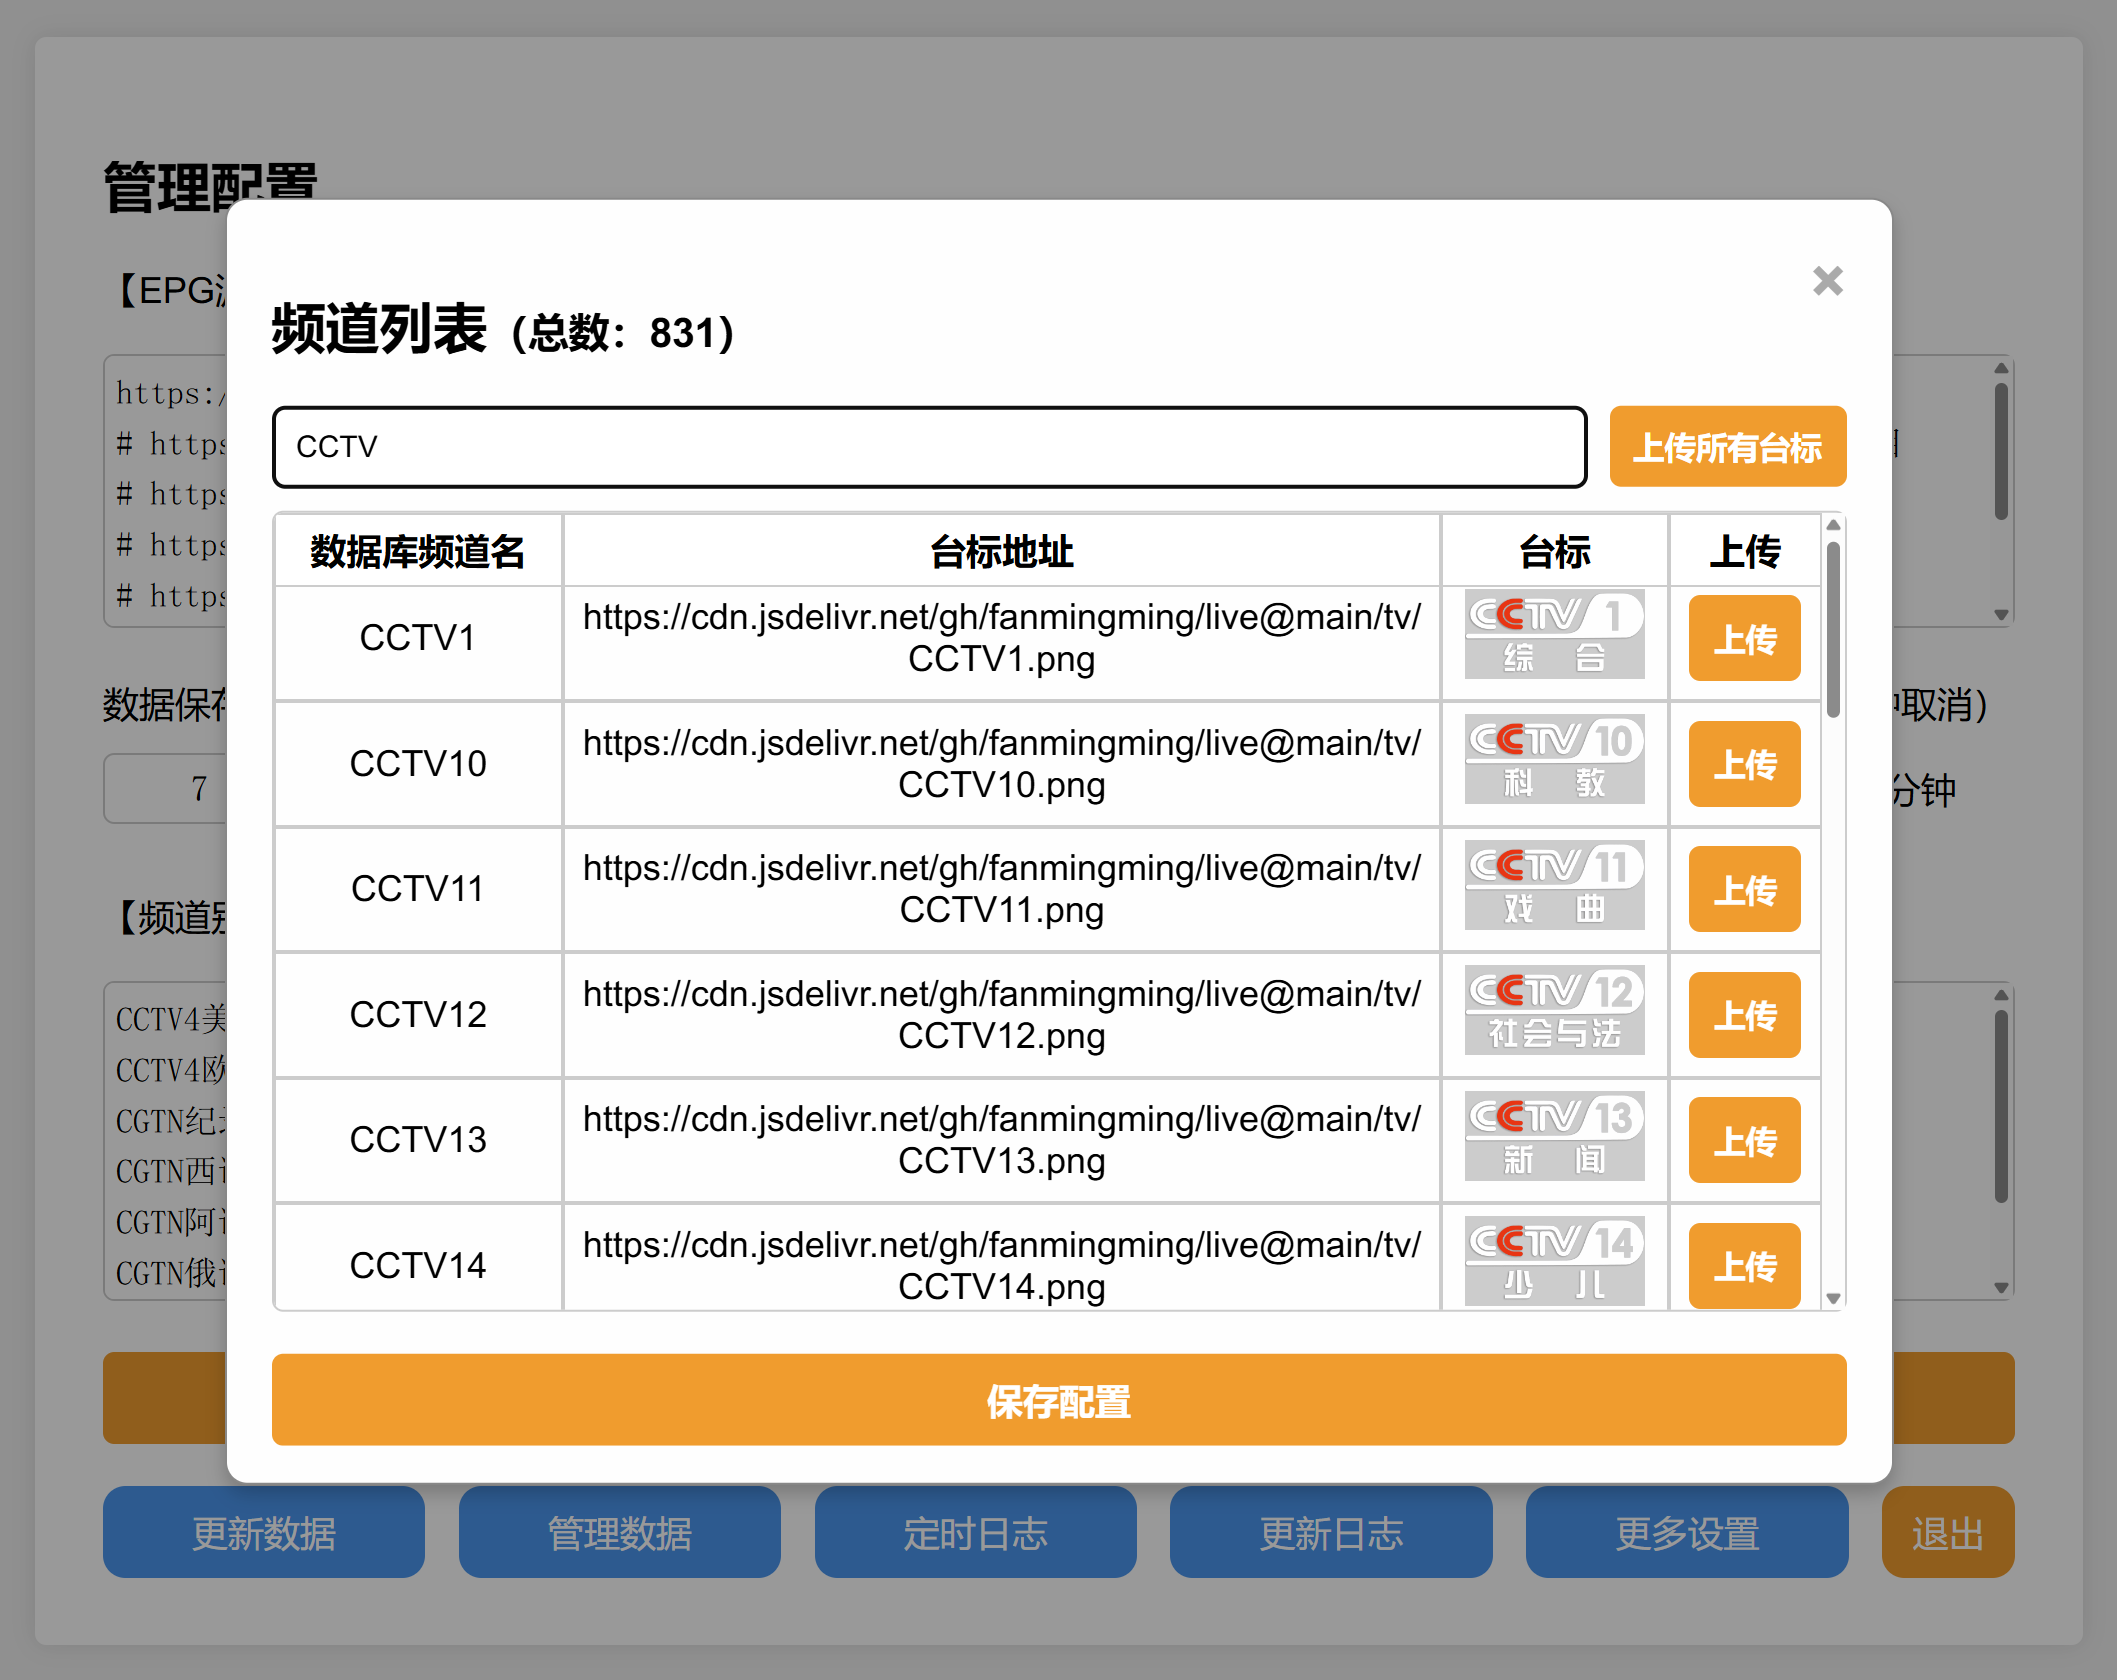
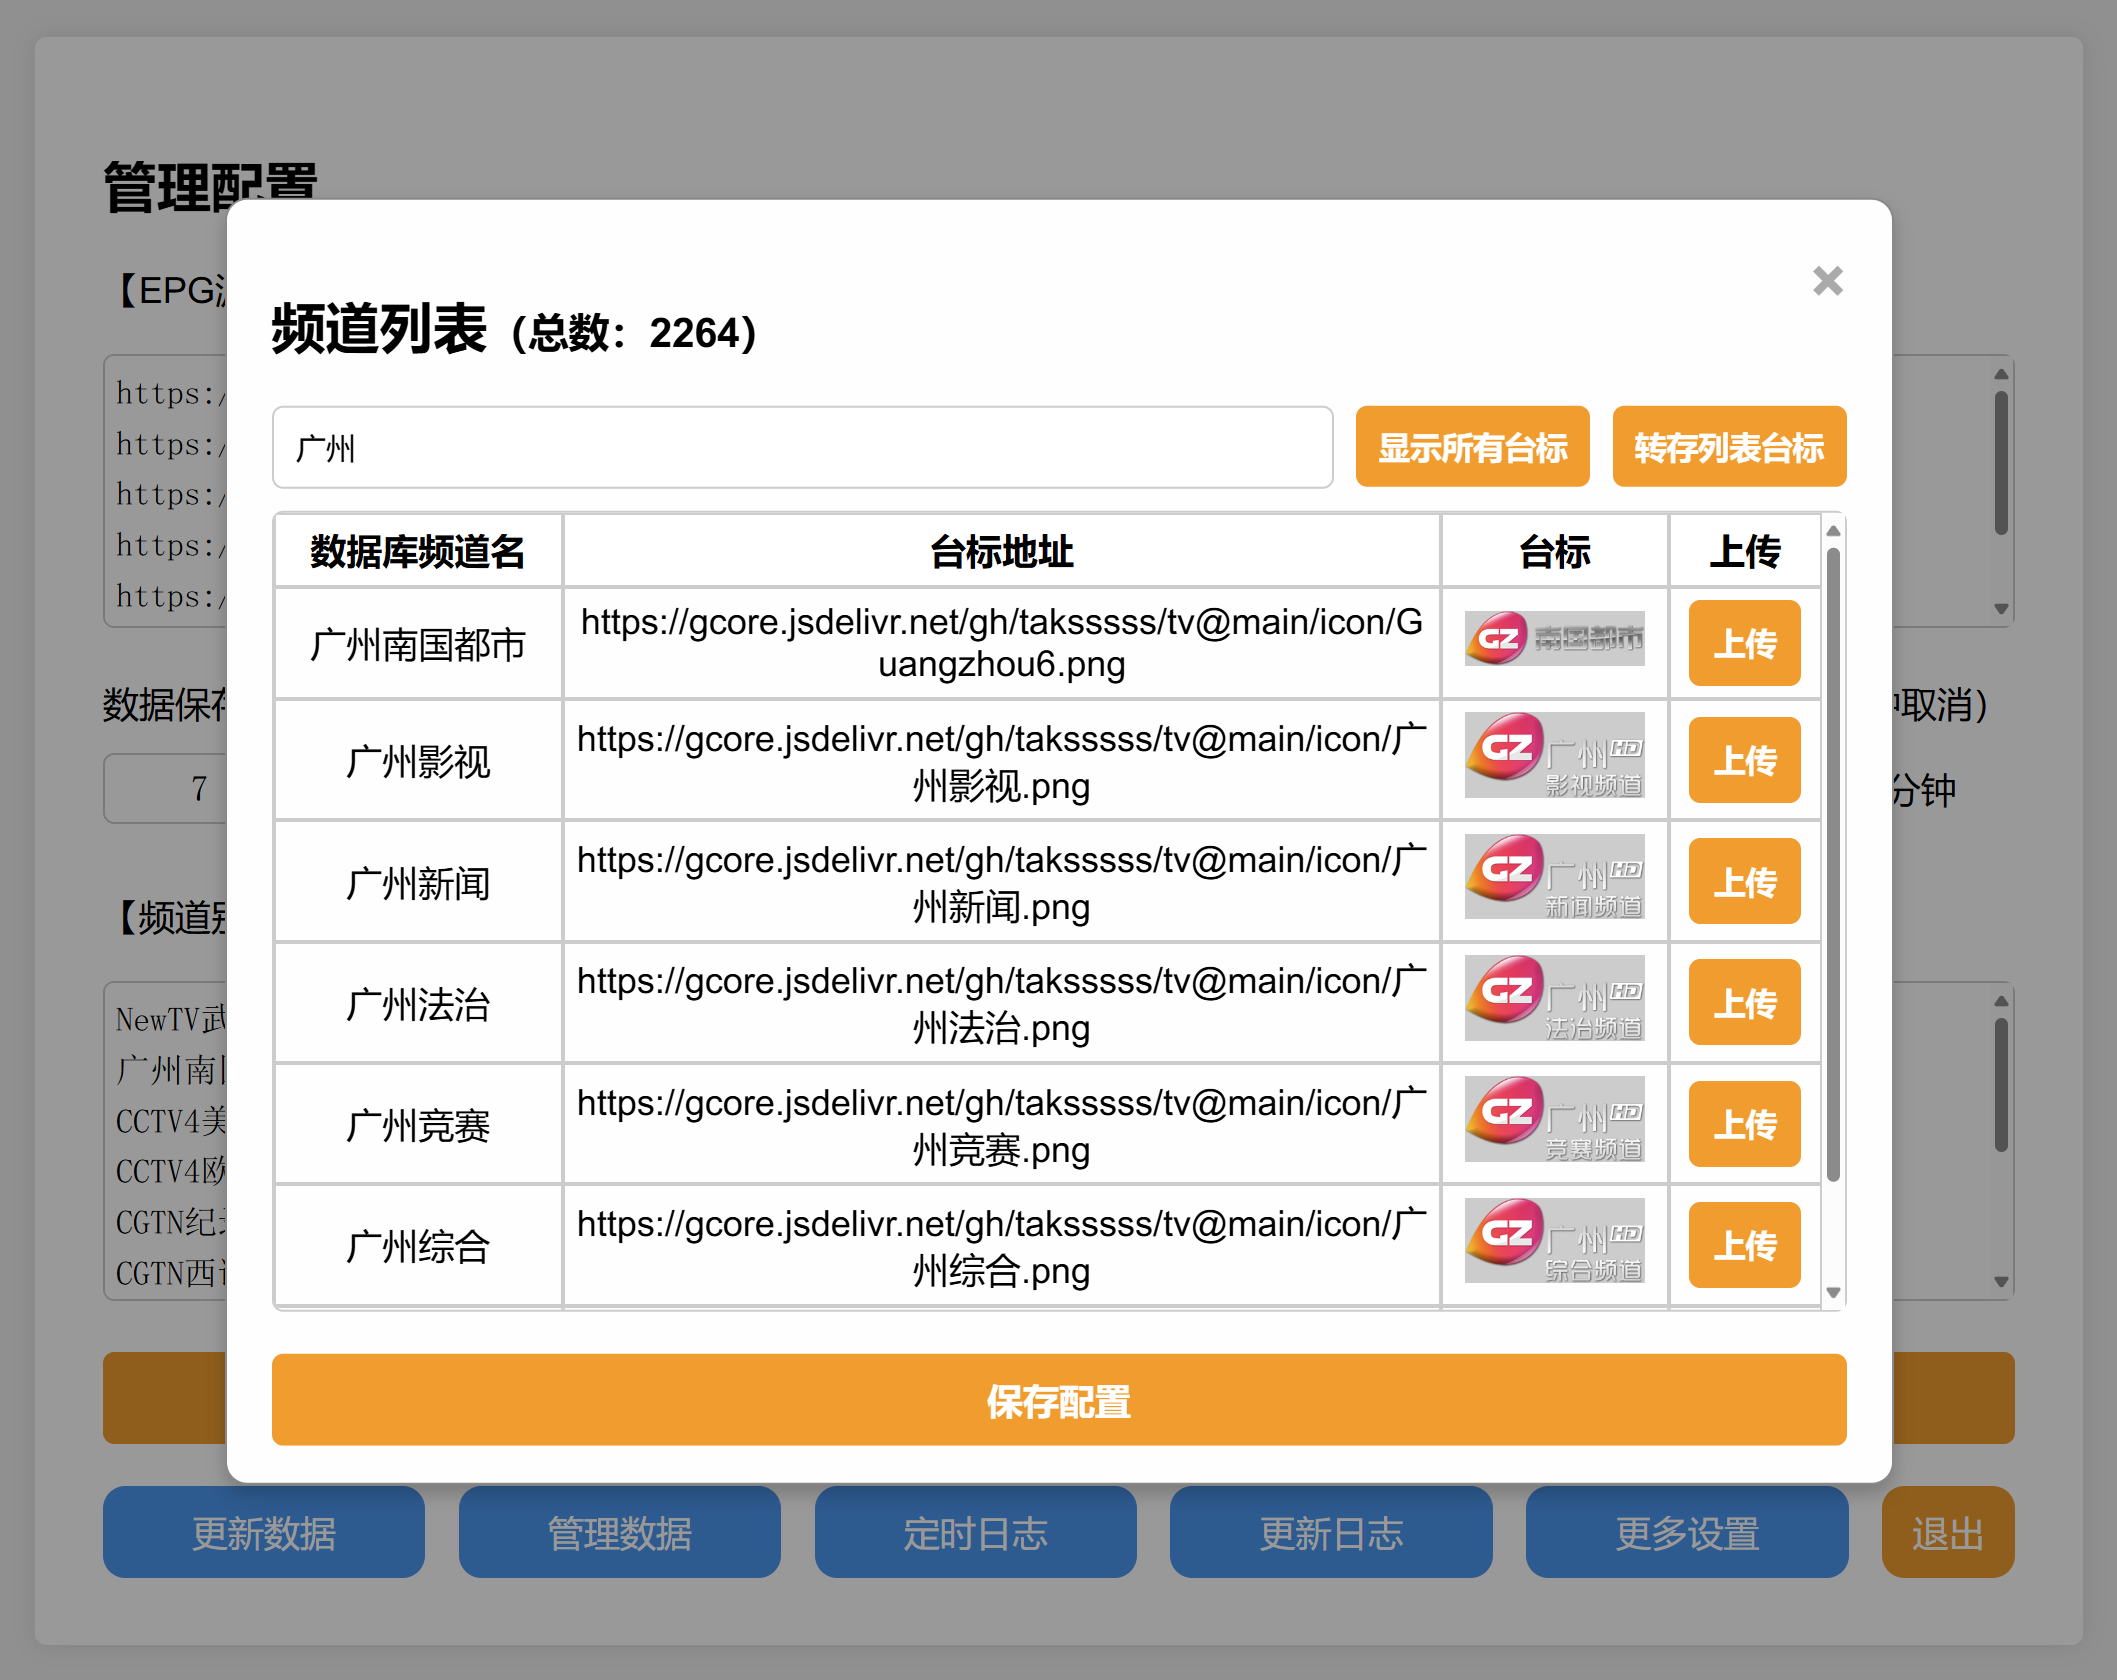
新增：同时显示无节目表的内置台标；优化：台标转存逻辑、频道模糊匹配

diff --git a/epg/css/manage.css b/epg/css/manage.css
@@ -155,8 +155,8 @@ input[type="text"] {
 .button-container a:hover, .button-container button:hover {
     background-color: #0b7dda;
 }
-button[id="uploadAllIcons"] {
-    width: 105px;
+button[id="uploadAllIcons"], button[id="showAllIcons"] {
+    width: auto;
     height: 36px;
     display: flex;
     align-items: center;

diff --git a/epg/manage.php b/epg/manage.php
@@ -313,6 +313,10 @@ try {
                 break;
 
             case 'get_icon':
+                // 是否显示无节目表的内置台标
+                if(isset($_GET['get_all_icon'])) {
+                    $iconList = $iconListMerged;
+                }
                 // 获取并合并数据库中的频道和 $iconList 中的频道，去重后按字母排序
                 $allChannels = array_unique(array_merge(
                     $db->query("SELECT DISTINCT channel FROM epg_data ORDER BY channel ASC")->fetchAll(PDO::FETCH_COLUMN),
@@ -608,8 +612,8 @@ try {
         
         <div class="flex-container">
             <div class="flex-item" style="width: 100%;">
-                <label for="channel_mappings">
-                    【频道别名】（数据库频道名 => 频道别名1, 频道别名2, ...）<span id="dbChannelName" onclick="showModal('channel')" style="color: blue; cursor: pointer;">（编辑别名）</span> <span id="dbChannelName" onclick="showModal('icon')" style="color: blue; cursor: pointer;">（编辑台标）</span>
+                <label>
+                    【频道别名】（数据库频道名 => 频道别名1, 频道别名2, ...）<span id="dbChannelName" onclick="showModal('channel')" style="color: blue; cursor: pointer;">（编辑别名）</span><span id="dbChannelName" onclick="showModal('icon')" style="color: blue; cursor: pointer;">（编辑台标）</span>
                 </label><br><br>
                 <textarea id="channel_mappings" name="channel_mappings" style="height: 142px;"><?php echo implode("\n", array_map(function($search, $replace) { return $search . ' => ' . $replace; }, array_keys($Config['channel_mappings']), $Config['channel_mappings'])); ?></textarea><br><br>
             </div>
@@ -704,8 +708,12 @@ try {
         <h2 id="iconModalTitle">频道列表</h2>
         <div style="display: flex;">
             <input type="text" id="iconSearchInput" placeholder="搜索频道名..." onkeyup="filterChannels('icon')" style="flex: 1; margin-right: 10px;">
-            <div class="tooltip" style="width:105px">
-                <button id="uploadAllIcons" type="button" onclick="uploadAllIcons();">转存所有台标</button>
+            <div class="tooltip" style="width:auto; margin-right: 10px;">
+                <button id="showAllIcons" type="button" onclick="showModal('allicon')">显示所有台标</button>
+                <span class="tooltiptext">同时显示无节目表的内置台标</span>
+            </div>
+            <div class="tooltip" style="width:auto;">
+                <button id="uploadAllIcons" type="button" onclick="uploadAllIcons();">转存列表台标</button>
                 <span class="tooltiptext">将远程台标转存到服务器</span>
             </div>
         </div>
@@ -990,32 +998,37 @@ try {
             case 'update':
                 modal = document.getElementById("updatelogModal");
                 logSpan = document.getElementsByClassName("close")[1];
-                fetchLogs('manage.php?get_update_logs=true', updateLogTable);
+                fetchData('manage.php?get_update_logs=true', updateLogTable);
                 break;
             case 'cron':
                 modal = document.getElementById("cronlogModal");
                 logSpan = document.getElementsByClassName("close")[2];
-                fetchLogs('manage.php?get_cron_logs=true', updateCronLogContent);
+                fetchData('manage.php?get_cron_logs=true', updateCronLogContent);
                 break;
             case 'channel':
                 modal = document.getElementById("channelModal");
                 logSpan = document.getElementsByClassName("close")[3];
-                fetchLogs('manage.php?get_channel=true', updateChannelList);
+                fetchData('manage.php?get_channel=true', updateChannelList);
                 break;
             case 'icon':
                 modal = document.getElementById("iconModal");
                 logSpan = document.getElementsByClassName("close")[4];
-                fetchLogs('manage.php?get_icon=true', updateIconList);
+                fetchData('manage.php?get_icon=true', updateIconList);
+                break;
+            case 'allicon':
+                modal = document.getElementById("iconModal");
+                logSpan = document.getElementsByClassName("close")[4];
+                fetchData('manage.php?get_icon=true&get_all_icon=true', updateIconList);
                 break;
             case 'channelbindepg':
                 modal = document.getElementById("channelBindEPGModal");
                 logSpan = document.getElementsByClassName("close")[5];
-                fetchLogs('manage.php?get_channel_bind_epg=true', updateChannelBindEPGList);
+                fetchData('manage.php?get_channel_bind_epg=true', updateChannelBindEPGList);
                 break;
             case 'channelmatch':
                 modal = document.getElementById("channelMatchModal");
                 logSpan = document.getElementsByClassName("close")[6];
-                fetchLogs('manage.php?get_channel_match=true', updateChannelMatchList);
+                fetchData('manage.php?get_channel_match=true', updateChannelMatchList);
                 document.getElementById("moreSettingModal").style.display = "none";
                 break;
             case 'moresetting':
@@ -1024,7 +1037,7 @@ try {
                 document.getElementById('db_type').addEventListener('change', updateMySQLFields);
                 modal = document.getElementById("moreSettingModal");
                 logSpan = document.getElementsByClassName("close")[7];
-                fetchLogs('manage.php?get_gen_list=true', updateGenList);
+                fetchData('manage.php?get_gen_list=true', updateGenList);
                 break;
             default:
                 console.error('Unknown type:', type);
@@ -1050,7 +1063,7 @@ try {
         }
     }
 
-    function fetchLogs(endpoint, callback) {
+    function fetchData(endpoint, callback) {
         fetch(endpoint)
             .then(response => response.json())
             .then(data => callback(data))
@@ -1287,14 +1300,20 @@ try {
         const allIcons = JSON.parse(iconTable.dataset.allIcons);
         const rows = Array.from(document.querySelectorAll('#iconTable tbody tr'));
 
-        // 过滤掉空的和已经在服务器上的图标
+        let totalIcons = 0;
+        let uploadedIcons = 0;
         const rowsToUpload = rows.filter(row => {
             const iconUrl = row.cells[1]?.innerText.trim();
-            return iconUrl && !iconUrl.startsWith(serverUrl);
+            if (iconUrl) {
+                totalIcons++;
+                if (!iconUrl.startsWith(serverUrl)) {
+                    return true;
+                } else {
+                    uploadedIcons++;
+                }
+            }
+            return false;
         });
-
-        const totalIcons = rowsToUpload.length;
-        let uploadedIcons = 0;
 
         const progressDisplay = document.getElementById('progressDisplay') || document.createElement('div');
         progressDisplay.id = 'progressDisplay';
@@ -1302,12 +1321,12 @@ try {
         progressDisplay.textContent = `已转存 ${uploadedIcons}/${totalIcons}`;
         iconTable.before(progressDisplay);
 
-        rowsToUpload.forEach(row => {
+        const uploadPromises = rowsToUpload.map(row => {
             const [channelCell, iconCell, previewCell] = row.cells;
             const iconUrl = iconCell?.innerText.trim();
             const fileName = decodeURIComponent(iconUrl.split('/').pop().split('?')[0]);
 
-            fetch(iconUrl)
+            return fetch(iconUrl)
                 .then(res => res.blob())
                 .then(blob => {
                     const formData = new FormData();
@@ -1340,6 +1359,15 @@ try {
                 .catch(() => {
                     previewCell.innerHTML = '上传出错';
                 });
+        });
+
+        Promise.all(uploadPromises).then(() => {
+            if (uploadedIcons !== totalIcons) {
+                uploadAllIcons(); // 继续上传
+            }
+            else {
+                progressDisplay.textContent = "全部转存成功，点击“保存配置”！";
+            }
         });
     }
 

diff --git a/epg/public.php b/epg/public.php
@@ -84,7 +84,10 @@ function initialDB() {
 
 // 获取处理后的频道名：$t2s参数表示繁简转换，默认false
 function cleanChannelName($channel, $t2s = false) {
-    global $Config;
+    global $Config;    
+    // 默认忽略 - 跟 空格 
+    $channel_replacements = ['-', ' '];
+    $channel = str_replace($channel_replacements, '', $channel);
     // 频道映射，优先级最高，支持正则表达式和多对一映射
     foreach ($Config['channel_mappings'] as $replace => $search) {
         if (strpos($search, 'regex:') === 0) {
@@ -94,19 +97,15 @@ function cleanChannelName($channel, $t2s = false) {
             }
         } else {
             // 普通映射，可能为多对一，忽略所有空格和大小写
-            $channelNoSpaces = str_replace(' ', '', $channel);
             $channels = array_map('trim', explode(',', $search));
             foreach ($channels as $singleChannel) {
-                if (strcasecmp($channelNoSpaces, str_replace(' ', '', trim($singleChannel))) === 0) {
+                if (strcasecmp($channel, str_replace($channel_replacements, '', $singleChannel)) === 0) {
                     return $replace;
     }}}}
     // 默认不进行繁简转换
     if ($t2s) {
         $channel = t2s($channel);
     }
-    // 默认忽略 - 跟 空格 
-    $channel_replacements = ['-', ' '];
-    $channel = str_ireplace($channel_replacements, '', $channel);
     return strtoupper($channel);
 }
 

diff --git a/epg/index.php b/epg/index.php
@@ -199,7 +199,7 @@ function findCurrentProgramme($programmes) {
 
 // 处理请求
 function fetchHandler() {
-    global $init, $db, $Config, $iconList, $iconListDefault;
+    global $init, $db, $Config;
 
     $uri = parse_url($_SERVER['REQUEST_URI']);
     $query_params = [];
